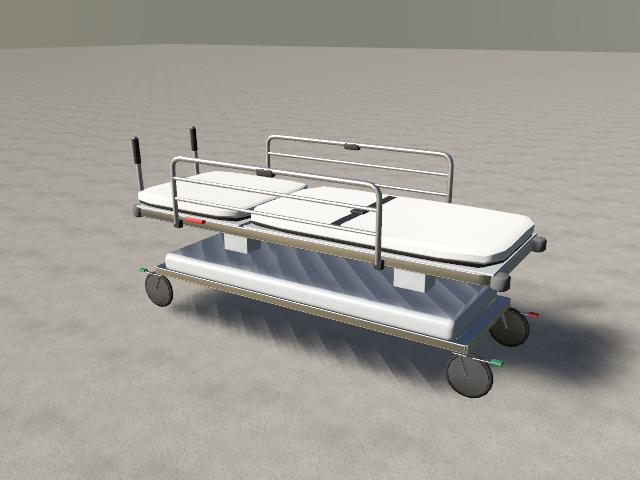
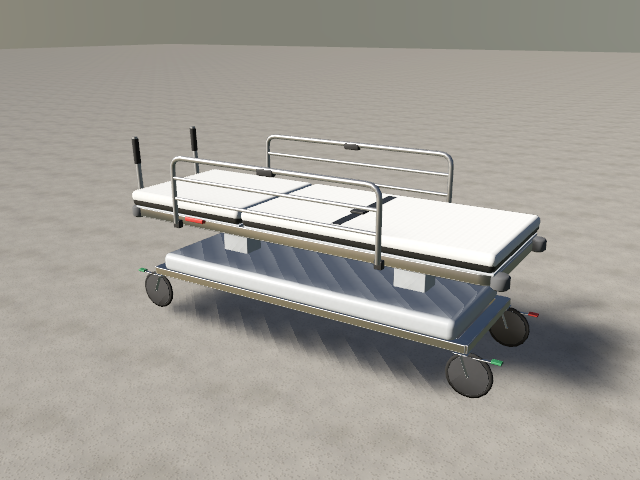
hospital-bed: med-surg bed (lift, 4-section deck, split rails); fitted sheet pad; er-stretcher re-gated

diff --git a/Sources/RealLibrary/Props/Patient/HospitalBed.swift b/Sources/RealLibrary/Props/Patient/HospitalBed.swift
@@ -1,0 +1,180 @@
+import simd
+import Foundation
+
+/// Med-surg hospital bed (Hill-Rom Centrella / Stryker S3 class): 89 x 203 cm mattress, deck height
+/// 40-76 cm, 2.18 m long and 1.0 m wide over the rails. Steel base under a grey shroud on four 125 mm
+/// casters with brake pedals, two three-stage lift columns, a steel deck frame carrying a four-section
+/// deck (head 0-65 degrees, fixed seat, thigh that follows the head as auto-contour, foot that drops for
+/// the chair position), a navy vinyl mattress in four segments under a fitted linen sheet, pillow and
+/// folded blanket, split side rails (head rails ride the head section) that slide down, molded head and
+/// footboards with grey inserts, a caregiver panel and a hanging control pendant on the footboard.
+/// Head at -X. Joints: lift > head (> head rails), thigh (mimic head) > foot, foot rails.
+public struct HospitalBed: RealArticulated {
+    public static let id = "hospital-bed"
+    public static let summary = "Med-surg hospital bed: four-section deck on lift columns and braked casters, split side rails, head and footboards, pendant, sheeted mattress and pillow."
+    public static let tags = ["prop", "medical", "hospital", "furniture", "plastic", "metal", "articulated"]
+    public static let budget = 15_000
+    public static let author = "realityhd"
+    public static let preview = PreviewHint(azimuth: 35, elevation: 20, distance: 1.0, studio: true)
+
+    /// Molded plastics (boards, rails).
+    public var plastic: MaterialKey = "plastic.medical"
+    /// Mattress cover and sheet.
+    public var mattress: MaterialKey = "vinyl.medical:2C4568"
+    public var sheet: MaterialKey = "fabric.linen"
+    /// Deck height at the lowest setting (m) and lift travel (m).
+    public var lowDeck: Float = 0.4
+    public var travel: Float = 0.36
+    public init() {}
+
+    public func rig(seed: UInt64) -> Rig {
+        var rng = SeededRNG(seed: seed)
+        var rig = Rig(name: Self.id, lods: 2, switchDistances: [10])
+        let grey: MaterialKey = "plastic.medical-grey", steel: MaterialKey = "metal.powder-white:C9CACB", dark: MaterialKey = "plastic.matte:2A2B2D"
+        let deck = lowDeck, padH: Float = 0.15, frameY = deck - 0.045
+        let mz: Float = 0.445, mx: Float = 1.015
+        let headX1: Float = -0.25, seatX1: Float = 0.05, thighX1: Float = 0.42
+        let casterH: Float = 0.16, baseY: Float = 0.2
+
+        // MARK: base
+        for l in 0..<2 {
+            var m = Model(name: Self.id)
+            for sz: Float in [-1, 1] {
+                m.add(cuboid(V3(1.72, 0.04, 0.05), material: steel), Xform(translation: V3(0, casterH + 0.02, sz * 0.32)))
+            }
+            for sx: Float in [-1, 1] {
+                m.add(cuboid(V3(0.06, 0.039, 0.68), material: steel), Xform(translation: V3(sx * 0.84, casterH + 0.02, 0)))
+            }
+            m.add(Prim.roundedBox(V3(1.5, 0.05, 0.52), radius: 0.02, bevelSegments: l == 0 ? 2 : 1, material: grey), Xform(translation: V3(0, baseY, 0)))
+            for sx: Float in [-1, 1] { for sz: Float in [-1, 1] {
+                let p = V3(sx * 0.84, 0, sz * 0.32)
+                if l == 0 {
+                    PatientKit.brakedCaster(&m, at: p, height: casterH, wheelRadius: 0.0625, yaw: (sx > 0 ? 0 : 180) + rng.float(-12...12), pedalYaw: sx > 0 ? 180 : 0,
+                                            frame: steel, wheel: "rubber", hub: "plastic.matte:8A8C90", pedal: "plastic.matte:B0302A", detail: false)
+                } else {
+                    m.add(Prim.cylinder(radius: 0.0625, height: 0.03, bevel: 0.006, segments: 10, bevelSegments: 1, material: "rubber"),
+                          Xform(translation: p + V3(0.02 * sx, 0.0625, -0.015), rotation: simd_quatf(degrees: 90, axis: V3(1, 0, 0))))
+                    m.add(PatientKit.box(V3(0.06, 0.07, 0.05), p + V3(0, casterH - 0.035, 0), r: 0.006, seg: 1, material: steel))
+                }
+            }}
+            rig.base[l] = m
+        }
+
+        // MARK: lift: columns, deck frame, seat section, boards, foot rails' carriers.
+        rig.part("lift", pivot: V3(0, frameY, 0), joint: .slide(axis: .up, 0...travel, duration: 2.0))
+        for x: Float in [-0.55, 0.55] {
+            PatientKit.column(&rig, name: x < 0 ? "col-head" : "col-foot", at: V2(x, 0), bottom: baseY + 0.02, top: deck - 0.02, travel: travel,
+                              size: V2(0.18, 0.14), housing: grey, sleeve: plastic, inner: steel)
+        }
+        for l in 0..<2 {
+            let ring = PatientKit.bend([V3(-1.0, frameY, -0.4), V3(1.0, frameY, -0.4), V3(1.0, frameY, 0.4), V3(-1.0, frameY, 0.4)], radius: 0.05, seg: l == 0 ? 3 : 1)
+            rig.add(Prim.sweep(Shape2D.roundedRect(0.06, 0.03, radius: 0.006, segments: 1), along: ring, up: .up, closedPath: true, material: steel), to: "lift", lods: l...l)
+        }
+        for x: Float in [-0.55, 0.55] {
+            rig.add(PatientKit.bar(V3(x, frameY - 0.01, -0.39), V3(x, frameY - 0.01, 0.39), w: 0.06, h: 0.05, r: 0.004, material: steel), to: "lift")
+        }
+        // Deck sections and mattress segments.
+        func section(_ x0: Float, _ x1: Float, to part: String, pillow: Bool = false, blanket: Bool = false) {
+            rig.add(PatientKit.box(V3(x1 - x0 - 0.01, 0.012, 2 * mz - 0.04), V3((x0 + x1) / 2, deck - 0.006, 0), r: 0.004, seg: 1, material: grey), to: part)
+            for (l, sub) in [(0, 5), (1, 3)] {
+                for s in PatientKit.pad(x0 + 0.003, x1 - 0.003, y0: deck, h: padH, w: 2 * mz, material: mattress, sheet: sheet, sub: sub, seed: seed &+ UInt64(x0 * 100 + 200)) {
+                    rig.add(s, to: part, lods: l...l)
+                }
+            }
+            if pillow {
+                // Pillow, dented where a head lay.
+                for (l, sub) in [(0, 5), (1, 3)] {
+                    let p = Prim.superellipsoid(V3(0.42, 0.13, 0.66), exponent: 2.6, subdivisions: sub, material: sheet) { d in
+                        1 - 0.28 * max(0, d.y) * exp(-(d.x * d.x + d.z * d.z) * 5)
+                    }
+                    rig.add(p, Xform(translation: V3(-0.78, deck + padH + 0.05, 0.02), rotation: simd_quatf(degrees: -6, axis: V3(0, 0, 1))), to: part, lods: l...l)
+                }
+            }
+            if blanket {
+                // Folded blanket across the foot.
+                for (l, sub) in [(0, 5), (1, 2)] {
+                    rig.add(Prim.superellipsoid(V3(0.36, 0.07, 0.8), exponent: 5, subdivisions: sub, material: "fabric.wool:A9BCD0"),
+                            Xform(translation: V3(0.74, deck + padH + 0.034, 0.0), rotation: simd_quatf(degrees: 3, axis: .up)), to: part, lods: l...l)
+                }
+            }
+        }
+        section(headX1, seatX1, to: "lift")
+
+        // Headboard and footboard: molded shells with grey inserts and hand slots.
+        func board(_ x: Float, top: Float, foot: Bool) {
+            let h = top - (frameY - 0.06), cy = frameY - 0.06 + h / 2
+            for l in 0..<2 {
+                let shell = Prim.extrude(Shape2D.roundedRect(0.92, h, radius: 0.07, segments: l == 0 ? 3 : 2), depth: 0.045, bevel: 0.012, bevelSegments: l == 0 ? 2 : 1, material: plastic)
+                rig.add(shell, Xform(translation: V3(x, cy, 0), rotation: simd_quatf(degrees: 90, axis: .up)), to: "lift", lods: l...l)
+            }
+            let ins = Prim.extrude(Shape2D.roundedRect(0.7, h * 0.48, radius: 0.04, segments: 3), depth: 0.05, bevel: 0.006, bevelSegments: 1, material: grey)
+            rig.add(ins, Xform(translation: V3(x, cy - h * 0.12, 0), rotation: simd_quatf(degrees: 90, axis: .up)), to: "lift")
+            for sz: Float in [-1, 1] {
+                rig.add(Prim.extrude(Shape2D.roundedRect(0.12, 0.035, radius: 0.017, segments: 3), depth: 0.05, bevel: 0.004, bevelSegments: 1, material: dark),
+                        Xform(translation: V3(x, top - 0.06, sz * 0.33), rotation: simd_quatf(degrees: 90, axis: .up)), to: "lift", lods: 0...0)
+            }
+        }
+        let hbX: Float = -mx - 0.05, fbX: Float = mx + 0.045
+        board(hbX, top: deck + 0.56, foot: false)
+        board(fbX, top: deck + 0.4, foot: true)
+        // Caregiver panel on the footboard top (angled LCD with buttons) and the hanging pendant.
+        let panelC = V3(fbX + 0.012, deck + 0.4 - 0.05, 0.12)
+        rig.add(PatientKit.panel(panelC + V3(0.0235, 0, 0), right: V3(0, 0, -1), up: .up, w: 0.12, h: 0.06, material: "screen.lcd:3A6E8F"), to: "lift")
+        var keys = Surface(material: grey)
+        for k in 0..<4 {
+            keys.append(cuboid(V3(0.006, 0.022, 0.022), material: grey), Xform(translation: V3(fbX + 0.025, deck + 0.4 - 0.05, -0.02 - Float(k) * 0.03)))
+        }
+        rig.add(keys, to: "lift", lods: 0...0)
+        let pendC = V3(fbX + 0.05, deck + 0.22, -0.3)
+        rig.add(Prim.superellipsoid(V3(0.035, 0.17, 0.075), exponent: 4, subdivisions: 4, material: plastic), Xform(translation: pendC), to: "lift")
+        rig.add(cuboid(V3(0.003, 0.09, 0.05), material: "plastic.medical-grey:6F7A84"), Xform(translation: pendC + V3(0.017, 0.02, 0)), to: "lift", lods: 0...0)
+        let hook = PatientKit.bend([pendC + V3(0, 0.085, 0), pendC + V3(0, 0.135, 0), pendC + V3(-0.04, 0.155, 0), pendC + V3(-0.05, 0.13, 0)], radius: 0.015, seg: 3)
+        rig.add(PatientKit.tube(hook, r: 0.004, sides: 6, material: grey), to: "lift", lods: 0...0)
+        let cord = catmull([pendC + V3(0, -0.085, 0), pendC + V3(0.01, -0.2, 0.02), V3(fbX + 0.02, frameY - 0.05, -0.25), V3(fbX - 0.05, frameY - 0.02, -0.3)], per: 5)
+        rig.add(PatientKit.tube(cord, r: 0.0035, sides: 6, material: "rubber.tubing:3A3B3D"), to: "lift", lods: 0...0)
+        // Head-end wall bumper rollers.
+        for sz: Float in [-1, 1] {
+            rig.add(Prim.cylinder(radius: 0.035, height: 0.05, bevel: 0.008, segments: 8, bevelSegments: 1, material: "rubber:5A5C5F"),
+                    Xform(translation: V3(hbX - 0.06, frameY - 0.04, sz * 0.4)), to: "lift")
+            rig.add(cuboid(V3(-1.0 - hbX + 0.06, 0.02, 0.03), material: steel), Xform(translation: V3((-1.0 + hbX - 0.06) / 2, frameY, sz * 0.4)), to: "lift")
+        }
+
+        // MARK: head section (Fowler), head rails ride it.
+        let pivY = deck + padH - 0.01
+        rig.part("head", parent: "lift", pivot: V3(headX1, pivY, 0), joint: .hinge(axis: V3(0, 0, -1), 0...65, duration: 2.0))
+        section(-mx, headX1, to: "head", pillow: true)
+        // MARK: thigh (auto-contour with the head) > foot.
+        rig.part("thigh", parent: "lift", pivot: V3(seatX1, pivY, 0), joint: Joint(.revolute, axis: V3(0, 0, 1), range: 0...20, mimic: .init("head", ratio: 0.3)))
+        section(seatX1, thighX1, to: "thigh")
+        rig.part("foot", parent: "thigh", pivot: V3(thighX1, pivY, 0), joint: .hinge(axis: V3(0, 0, 1), -75...15, duration: 1.5))
+        section(thighX1, mx, to: "foot", blanket: true)
+
+        // MARK: split side rails: molded loops that slide down beside the mattress.
+        let railZ = mz + 0.035, railTop = deck + padH + 0.22, railBot = deck + 0.08
+        func rail(_ name: String, parent: String, x0: Float, x1: Float, sz: Float) {
+            let z = sz * railZ
+            rig.part(name, parent: parent, pivot: V3((x0 + x1) / 2, railBot, z), joint: .slide(axis: V3(0, -1, 0), 0...0.3, duration: 1.0))
+            for l in 0..<2 {
+                let loop = PatientKit.bend([V3(x0, railBot, z), V3(x1, railBot, z), V3(x1, railTop, z), V3(x0, railTop, z)], radius: 0.06, seg: l == 0 ? 3 : 1)
+                rig.add(Prim.sweep(Shape2D.roundedRect(0.03, 0.026, radius: 0.01, segments: 1), along: loop, up: V3(0, 0, sz), closedPath: true, material: plastic), to: name, lods: l...l)
+            }
+            let midY = (railBot + railTop) / 2
+            rig.add(Prim.roundedBox(V3(x1 - x0 - 0.02, 0.02, 0.02), radius: 0.008, bevelSegments: 1, material: plastic), Xform(translation: V3((x0 + x1) / 2, midY, z)), to: name)
+            // Release latch and the mounting arm to the deck.
+            rig.add(PatientKit.box(V3(0.07, 0.025, 0.03), V3((x0 + x1) / 2, railTop - 0.005, z), r: 0.008, seg: 1, material: grey), to: name, lods: 0...0)
+            rig.add(cuboid(V3(0.06, 0.14, 0.03), material: steel), Xform(translation: V3((x0 + x1) / 2, railBot - 0.05, z - sz * 0.015)), to: name)
+        }
+        for sz: Float in [-1, 1] {
+            let s = sz > 0 ? "right" : "left"
+            rail("head-rail-" + s, parent: "head", x0: -0.92, x1: -0.3, sz: sz)
+            rail("foot-rail-" + s, parent: "lift", x0: 0.02, x1: 0.82, sz: sz)
+        }
+
+        groundAO(&rig, height: 0.12, floor: 0.55)
+        let down = ["head-rail-left": Float(0.3), "head-rail-right": 0.3, "foot-rail-left": 0.3, "foot-rail-right": 0.3]
+        rig.states = [RigState("flat"), RigState("fowler", ["lift": 0.12, "head": 45, "foot": -13.5]),
+                      RigState("chair-ish", ["lift": 0.2, "head": 65, "foot": -45]), RigState("high", ["lift": travel]),
+                      RigState("rails-down", down.merging(["lift": 0.12]) { a, _ in a })]
+        return rig
+    }
+}

diff --git a/Sources/RealLibrary/Props/Patient/PatientKit.swift b/Sources/RealLibrary/Props/Patient/PatientKit.swift
@@ -93,14 +93,13 @@ enum PatientKit {
     /// fitted sheet over its top and upper sides with a few soft wrinkles.
     static func pad(_ x0: Float, _ x1: Float, y0: Float, h: Float, w: Float, material: MaterialKey, sheet: MaterialKey?, sub: Int, seed: UInt64) -> [Surface] {
         let cx = (x0 + x1) / 2, L = x1 - x0
-        var out = [Prim.superellipsoid(V3(L, h, w), exponent: 8, subdivisions: sub, material: material).transformed(Xform(translation: V3(cx, y0 + h / 2, 0)))]
+        var out = [sheet == nil ? Prim.superellipsoid(V3(L, h, w), exponent: 8, subdivisions: sub, material: material).transformed(Xform(translation: V3(cx, y0 + h / 2, 0)))
+                                : Prim.roundedBox(V3(L, h, w), radius: min(0.03, h * 0.3), bevelSegments: 1, material: material).transformed(Xform(translation: V3(cx, y0 + h / 2, 0)))]
         if let sheet {
-            let ph = Float(seed % 5) * 0.7
-            var s = Prim.superellipsoid(V3(L + 0.006, h * 0.8, w + 0.006), exponent: 8, subdivisions: sub, material: sheet) { d in
-                1 + 0.012 * sin(d.x * 9 + ph) * sin(d.z * 7) * max(0, d.y)
-            }
-            s = s.transformed(Xform(translation: V3(cx, y0 + h * 0.6 + 0.0015, 0)))
-            out.append(s)
+            // Fitted sheet: a slightly larger shell over the top and the upper three quarters of the sides.
+            let r = min(0.03, h * 0.3) + 0.003
+            out.append(Prim.roundedBox(V3(L + 0.006, h * 0.75, w + 0.006), radius: r, bevelSegments: sub > 4 ? 2 : 1, material: sheet)
+                .transformed(Xform(translation: V3(cx, y0 + h * 0.625 + 0.002, 0))))
         }
         return out
     }

diff --git a/Sources/RealLibrary/Props/Patient/ErStretcher.swift b/Sources/RealLibrary/Props/Patient/ErStretcher.swift
@@ -11,7 +11,7 @@ public struct ErStretcher: RealArticulated {
     public static let id = "er-stretcher"
     public static let summary = "Emergency stretcher: shrouded base on four braked casters, twin lift columns, vinyl pad with linen sheet, Fowler backrest, fold-down side rails and IV pole."
     public static let tags = ["prop", "medical", "hospital", "furniture", "metal", "plastic", "articulated"]
-    public static let budget = 15_000
+    public static let budget = 14_000
     public static let author = "realityhd"
     public static let preview = PreviewHint(azimuth: 32, elevation: 18, distance: 1.0, studio: true)
 
@@ -91,8 +91,10 @@ public struct ErStretcher: RealArticulated {
                 Xform(translation: V3(strapX, deck + padH + 0.01, 0.08)), to: "lift", lods: 0...0)
         // Corner bumpers.
         for sx: Float in [-1, 1] { for sz: Float in [-1, 1] {
-            rig.add(Prim.cylinder(radius: 0.038, height: 0.06, bevel: 0.01, segments: 12, bevelSegments: 1, material: "rubber:5A5C5F"),
-                    Xform(translation: V3(sx * (L + 0.005), frameY - 0.03, sz * 0.27)), to: "lift")
+            for (l, n) in [(0, 12), (1, 6)] {
+                rig.add(Prim.cylinder(radius: 0.038, height: 0.06, bevel: 0.01, segments: n, bevelSegments: 1, material: "rubber:5A5C5F"),
+                        Xform(translation: V3(sx * (L + 0.005), frameY - 0.03, sz * 0.27)), to: "lift", lods: l...l)
+            }
         }}
         // Push handles at the head end.
         for sz: Float in [-1, 1] {

diff --git a/Sources/RealLibrary/Props/Props.swift b/Sources/RealLibrary/Props/Props.swift
@@ -69,6 +69,7 @@ public enum Props {
         ExamTable.self,
         Wheelchair.self,
         ErStretcher.self,
+        HospitalBed.self,
         // realityhd:prop
     ]
 }
